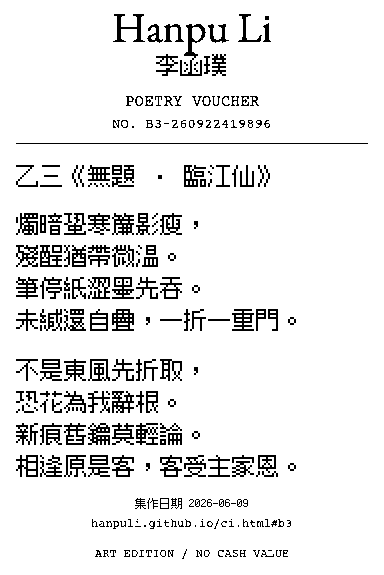
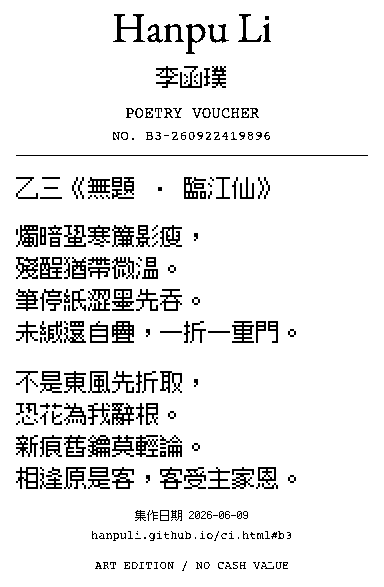
Space voucher author names in thermal proofs

diff --git a/ru/poetry-voucher/index.html b/ru/poetry-voucher/index.html
@@ -21,7 +21,7 @@
 <meta property="og:image" content="https://hanpuli.github.io/poetry-voucher/sample-voucher.png">
 <meta property="og:image:type" content="image/png">
 <meta property="og:image:width" content="384">
-<meta property="og:image:height" content="575">
+<meta property="og:image:height" content="587">
 <meta property="og:image:alt" content="Базовый образец B3: вымышленный чек с оплатой наличными и отдельный талон с оригиналом стихотворения">
 <meta property="og:url" content="https://hanpuli.github.io/ru/poetry-voucher/">
 <meta property="og:locale" content="ru_RU">
@@ -90,7 +90,7 @@
     <div class="pv-description"><p>Издание из двух частей: вымышленный кассовый чек и отдельный талон с полным текстом стихотворения. Выберите опубликованное произведение или наберите свой текст для термобумаги шириной 58 мм.</p><a class="pv-cta" href="/poetry-voucher/make.html?lang=ru">Создать поэтический талон</a><a class="pv-text-link" href="/ru/ci.html">Читать стихи</a></div>
   </section>
   <figure class="pv-sample" aria-label="Базовый образец B3: вымышленный чек с оплатой наличными и отдельный талон с оригиналом стихотворения">
-    <div class="pv-papers"><div><p>01 / Чек</p><img src="/poetry-voucher/sample-receipt.png" width="384" height="1062" alt="01 / Чек" decoding="async"></div><div><p>02 / Стихотворение</p><img src="/poetry-voucher/sample-voucher.png" width="384" height="575" alt="02 / Стихотворение" decoding="async"></div></div>
+    <div class="pv-papers"><div><p>01 / Чек</p><img src="/poetry-voucher/sample-receipt.png" width="384" height="1062" alt="01 / Чек" decoding="async"></div><div><p>02 / Стихотворение</p><img src="/poetry-voucher/sample-voucher.png" width="384" height="587" alt="02 / Стихотворение" decoding="async"></div></div>
     <figcaption>B3 · основной · оригинал · наличные</figcaption>
   </figure>
   <div class="pv-notes">

diff --git a/fr/poetry-voucher/index.html b/fr/poetry-voucher/index.html
@@ -21,7 +21,7 @@
 <meta property="og:image" content="https://hanpuli.github.io/poetry-voucher/sample-voucher.png">
 <meta property="og:image:type" content="image/png">
 <meta property="og:image:width" content="384">
-<meta property="og:image:height" content="575">
+<meta property="og:image:height" content="587">
 <meta property="og:image:alt" content="Épreuve de base B3 avec ticket fictif payé en espèces et bon poétique en version originale">
 <meta property="og:url" content="https://hanpuli.github.io/fr/poetry-voucher/">
 <meta property="og:locale" content="fr_FR">
@@ -90,7 +90,7 @@
     <div class="pv-description"><p>Une édition en deux parties : un ticket de caisse fictif, puis un bon portant le poème intégral. Choisissez une œuvre publiée ou composez votre texte pour un papier thermique de 58 mm.</p><a class="pv-cta" href="/poetry-voucher/make.html?lang=fr">Créer un bon poétique</a><a class="pv-text-link" href="/fr/ci.html">Lire les poèmes</a></div>
   </section>
   <figure class="pv-sample" aria-label="Épreuve de base B3 avec ticket fictif payé en espèces et bon poétique en version originale">
-    <div class="pv-papers"><div><p>01 / Le ticket</p><img src="/poetry-voucher/sample-receipt.png" width="384" height="1062" alt="01 / Le ticket" decoding="async"></div><div><p>02 / Le poème</p><img src="/poetry-voucher/sample-voucher.png" width="384" height="575" alt="02 / Le poème" decoding="async"></div></div>
+    <div class="pv-papers"><div><p>01 / Le ticket</p><img src="/poetry-voucher/sample-receipt.png" width="384" height="1062" alt="01 / Le ticket" decoding="async"></div><div><p>02 / Le poème</p><img src="/poetry-voucher/sample-voucher.png" width="384" height="587" alt="02 / Le poème" decoding="async"></div></div>
     <figcaption>B3 · base · original · espèces</figcaption>
   </figure>
   <div class="pv-notes">

diff --git a/de/poetry-voucher/index.html b/de/poetry-voucher/index.html
@@ -21,7 +21,7 @@
 <meta property="og:image" content="https://hanpuli.github.io/poetry-voucher/sample-voucher.png">
 <meta property="og:image:type" content="image/png">
 <meta property="og:image:width" content="384">
-<meta property="og:image:height" content="575">
+<meta property="og:image:height" content="587">
 <meta property="og:image:alt" content="B3-Basismuster mit fiktivem Barzahlungsbon und separatem Gedichtbon im Original">
 <meta property="og:url" content="https://hanpuli.github.io/de/poetry-voucher/">
 <meta property="og:locale" content="de_DE">
@@ -90,7 +90,7 @@
     <div class="pv-description"><p>Eine zweiteilige Edition: ein fiktiver Kassenbon und ein separater Bon mit dem vollständigen Gedicht. Wählen Sie ein veröffentlichtes Werk oder setzen Sie eigenen Text für 58 mm breites Thermopapier.</p><a class="pv-cta" href="/poetry-voucher/make.html?lang=de">Einen Gedichtbon gestalten</a><a class="pv-text-link" href="/de/ci.html">Gedichte lesen</a></div>
   </section>
   <figure class="pv-sample" aria-label="B3-Basismuster mit fiktivem Barzahlungsbon und separatem Gedichtbon im Original">
-    <div class="pv-papers"><div><p>01 / Kassenbon</p><img src="/poetry-voucher/sample-receipt.png" width="384" height="1062" alt="01 / Kassenbon" decoding="async"></div><div><p>02 / Gedicht</p><img src="/poetry-voucher/sample-voucher.png" width="384" height="575" alt="02 / Gedicht" decoding="async"></div></div>
+    <div class="pv-papers"><div><p>01 / Kassenbon</p><img src="/poetry-voucher/sample-receipt.png" width="384" height="1062" alt="01 / Kassenbon" decoding="async"></div><div><p>02 / Gedicht</p><img src="/poetry-voucher/sample-voucher.png" width="384" height="587" alt="02 / Gedicht" decoding="async"></div></div>
     <figcaption>B3 · Basis · Original · bar</figcaption>
   </figure>
   <div class="pv-notes">

diff --git a/poetry-voucher/index.html b/poetry-voucher/index.html
@@ -21,7 +21,7 @@
 <meta property="og:image" content="https://hanpuli.github.io/poetry-voucher/sample-voucher.png">
 <meta property="og:image:type" content="image/png">
 <meta property="og:image:width" content="384">
-<meta property="og:image:height" content="575">
+<meta property="og:image:height" content="587">
 <meta property="og:image:alt" content="B3 basic Poetry Voucher specimen: fictional cash receipt and separate original-text poem voucher">
 <meta property="og:url" content="https://hanpuli.github.io/poetry-voucher/">
 <meta property="og:locale" content="en_GB">
@@ -90,7 +90,7 @@
     <div class="pv-description"><p>A two-part edition: a fictional till receipt, followed by a voucher carrying the poem. Choose a published work or set your own text in a format made for 58 mm thermal paper.</p><a class="pv-cta" href="/poetry-voucher/make.html?lang=en">Make a voucher</a><a class="pv-text-link" href="/ci.html">Read the poems</a></div>
   </section>
   <figure class="pv-sample" aria-label="B3 basic Poetry Voucher specimen: fictional cash receipt and separate original-text poem voucher">
-    <div class="pv-papers"><div><p>01 / The receipt</p><img src="/poetry-voucher/sample-receipt.png" width="384" height="1062" alt="01 / The receipt" decoding="async"></div><div><p>02 / The poem</p><img src="/poetry-voucher/sample-voucher.png" width="384" height="575" alt="02 / The poem" decoding="async"></div></div>
+    <div class="pv-papers"><div><p>01 / The receipt</p><img src="/poetry-voucher/sample-receipt.png" width="384" height="1062" alt="01 / The receipt" decoding="async"></div><div><p>02 / The poem</p><img src="/poetry-voucher/sample-voucher.png" width="384" height="587" alt="02 / The poem" decoding="async"></div></div>
     <figcaption>B3 · basic · original · cash</figcaption>
   </figure>
   <div class="pv-notes">

diff --git a/zh-hans/poetry-voucher/index.html b/zh-hans/poetry-voucher/index.html
@@ -21,7 +21,7 @@
 <meta property="og:image" content="https://hanpuli.github.io/poetry-voucher/sample-voucher.png">
 <meta property="og:image:type" content="image/png">
 <meta property="og:image:width" content="384">
-<meta property="og:image:height" content="575">
+<meta property="og:image:height" content="587">
 <meta property="og:image:alt" content="乙三诗券基础样本：虚构现金小票及独立的原文诗券">
 <meta property="og:url" content="https://hanpuli.github.io/zh-hans/poetry-voucher/">
 <meta property="og:locale" content="zh_CN">
@@ -90,7 +90,7 @@
     <div class="pv-description"><p>一份分成两段的作品：上段是一笔虚构交易，下段是载有完整诗文的券。选择已发表作品，或排入自己的文字，带走一份为 58 毫米热敏纸设计的版本。</p><a class="pv-cta" href="/poetry-voucher/make.html?lang=zh-Hans">制作一张诗券</a><a class="pv-text-link" href="/zh-hans/ci.html">阅读原作</a></div>
   </section>
   <figure class="pv-sample" aria-label="乙三诗券基础样本：虚构现金小票及独立的原文诗券">
-    <div class="pv-papers"><div><p>01 / 小票</p><img src="/poetry-voucher/sample-receipt.png" width="384" height="1062" alt="01 / 小票" decoding="async"></div><div><p>02 / 诗券</p><img src="/poetry-voucher/sample-voucher.png" width="384" height="575" alt="02 / 诗券" decoding="async"></div></div>
+    <div class="pv-papers"><div><p>01 / 小票</p><img src="/poetry-voucher/sample-receipt.png" width="384" height="1062" alt="01 / 小票" decoding="async"></div><div><p>02 / 诗券</p><img src="/poetry-voucher/sample-voucher.png" width="384" height="587" alt="02 / 诗券" decoding="async"></div></div>
     <figcaption>乙三 · 基础 · 原文 · 现金</figcaption>
   </figure>
   <div class="pv-notes">

diff --git a/ja/poetry-voucher/index.html b/ja/poetry-voucher/index.html
@@ -21,7 +21,7 @@
 <meta property="og:image" content="https://hanpuli.github.io/poetry-voucher/sample-voucher.png">
 <meta property="og:image:type" content="image/png">
 <meta property="og:image:width" content="384">
-<meta property="og:image:height" content="575">
+<meta property="og:image:height" content="587">
 <meta property="og:image:alt" content="乙三の基本見本。架空の現金レシートと原文の詩の券">
 <meta property="og:url" content="https://hanpuli.github.io/ja/poetry-voucher/">
 <meta property="og:locale" content="ja_JP">
@@ -90,7 +90,7 @@
     <div class="pv-description"><p>架空の会計レシートと、詩の全文を収めた券。公開作品を選ぶか、自分の文章を58ミリの感熱紙のために組版できます。</p><a class="pv-cta" href="/poetry-voucher/make.html?lang=ja">詩の券を作る</a><a class="pv-text-link" href="/ja/ci.html">原作を読む</a></div>
   </section>
   <figure class="pv-sample" aria-label="乙三の基本見本。架空の現金レシートと原文の詩の券">
-    <div class="pv-papers"><div><p>01 / レシート</p><img src="/poetry-voucher/sample-receipt.png" width="384" height="1062" alt="01 / レシート" decoding="async"></div><div><p>02 / 詩の券</p><img src="/poetry-voucher/sample-voucher.png" width="384" height="575" alt="02 / 詩の券" decoding="async"></div></div>
+    <div class="pv-papers"><div><p>01 / レシート</p><img src="/poetry-voucher/sample-receipt.png" width="384" height="1062" alt="01 / レシート" decoding="async"></div><div><p>02 / 詩の券</p><img src="/poetry-voucher/sample-voucher.png" width="384" height="587" alt="02 / 詩の券" decoding="async"></div></div>
     <figcaption>乙三 · 基本 · 原文 · 現金</figcaption>
   </figure>
   <div class="pv-notes">

diff --git a/zh/poetry-voucher/index.html b/zh/poetry-voucher/index.html
@@ -21,7 +21,7 @@
 <meta property="og:image" content="https://hanpuli.github.io/poetry-voucher/sample-voucher.png">
 <meta property="og:image:type" content="image/png">
 <meta property="og:image:width" content="384">
-<meta property="og:image:height" content="575">
+<meta property="og:image:height" content="587">
 <meta property="og:image:alt" content="乙三詩券基本樣本：虛構現金小票及獨立的原文詩券">
 <meta property="og:url" content="https://hanpuli.github.io/zh/poetry-voucher/">
 <meta property="og:locale" content="zh_HK">
@@ -90,7 +90,7 @@
     <div class="pv-description"><p>一份分成兩段的作品：上段是一筆虛構交易，下段是載有完整詩文的券。選擇已發表作品，或排入自己的文字，帶走一份為 58 毫米熱敏紙設計的版本。</p><a class="pv-cta" href="/poetry-voucher/make.html?lang=zh-Hant">製作一張詩券</a><a class="pv-text-link" href="/zh/ci.html">閱讀原作</a></div>
   </section>
   <figure class="pv-sample" aria-label="乙三詩券基本樣本：虛構現金小票及獨立的原文詩券">
-    <div class="pv-papers"><div><p>01 / 小票</p><img src="/poetry-voucher/sample-receipt.png" width="384" height="1062" alt="01 / 小票" decoding="async"></div><div><p>02 / 詩券</p><img src="/poetry-voucher/sample-voucher.png" width="384" height="575" alt="02 / 詩券" decoding="async"></div></div>
+    <div class="pv-papers"><div><p>01 / 小票</p><img src="/poetry-voucher/sample-receipt.png" width="384" height="1062" alt="01 / 小票" decoding="async"></div><div><p>02 / 詩券</p><img src="/poetry-voucher/sample-voucher.png" width="384" height="587" alt="02 / 詩券" decoding="async"></div></div>
     <figcaption>乙三 · 基本 · 原文 · 現金</figcaption>
   </figure>
   <div class="pv-notes">

diff --git a/content/poetry-voucher-app/gallery.js b/content/poetry-voucher-app/gallery.js
@@ -73,6 +73,7 @@ const TYPE_CONFIG=Object.freeze({
   translation:19,
   authorLatin:42,
   authorCjk:20,
+  authorNameGapDots:12,
   pixelGrid:12,
   pixelSmallCutoff:16,
   pixelMinBody:24
@@ -428,7 +429,7 @@ function render(spec){
   p.till('PLEASE KEEP FOR YOUR RECORDS',null,true);p.space(8);
   p.till('FICTIONAL TRANSACTION',null,true);p.till('NO PAYMENT PROCESSED',null,true);p.till('NOT PROOF OF PURCHASE',null,true);
   const receiptEnd=p.y+PAPER_CONFIG.receiptInsetDots;p.space(34);p.till('-------- CUT HERE --------',null,true);p.space(34);const voucherStart=p.y;
-  if(spec.original){p.text('Hanpu Li',TYPE_CONFIG.authorLatin,serif,true,48);p.text('李函璞',TYPE_CONFIG.authorCjk,bodyFont,true,29);p.space(10);}
+  if(spec.original){p.text('Hanpu Li',TYPE_CONFIG.authorLatin,serif,true,48);p.space(TYPE_CONFIG.authorNameGapDots);p.text('李函璞',TYPE_CONFIG.authorCjk,bodyFont,true,29);p.space(10);}
   p.text('POETRY VOUCHER',16,mono,true,24);p.text('NO. '+voucher,14,mono,true,21);
   p.space(8);p.x.fillRect(PAPER_CONFIG.bodyInsetDots,p.y,PAPER_CONFIG.bodyWidthDots,1);p.space(16);p.text(spec.title,22,bodyFont,false,29);
   if(!spec.original&&spec.author)p.text(spec.author,14,bodyFont,false,20);

diff --git a/poetry-voucher/gallery.js b/poetry-voucher/gallery.js
@@ -73,6 +73,7 @@ const TYPE_CONFIG=Object.freeze({
   translation:19,
   authorLatin:42,
   authorCjk:20,
+  authorNameGapDots:12,
   pixelGrid:12,
   pixelSmallCutoff:16,
   pixelMinBody:24
@@ -428,7 +429,7 @@ function render(spec){
   p.till('PLEASE KEEP FOR YOUR RECORDS',null,true);p.space(8);
   p.till('FICTIONAL TRANSACTION',null,true);p.till('NO PAYMENT PROCESSED',null,true);p.till('NOT PROOF OF PURCHASE',null,true);
   const receiptEnd=p.y+PAPER_CONFIG.receiptInsetDots;p.space(34);p.till('-------- CUT HERE --------',null,true);p.space(34);const voucherStart=p.y;
-  if(spec.original){p.text('Hanpu Li',TYPE_CONFIG.authorLatin,serif,true,48);p.text('李函璞',TYPE_CONFIG.authorCjk,bodyFont,true,29);p.space(10);}
+  if(spec.original){p.text('Hanpu Li',TYPE_CONFIG.authorLatin,serif,true,48);p.space(TYPE_CONFIG.authorNameGapDots);p.text('李函璞',TYPE_CONFIG.authorCjk,bodyFont,true,29);p.space(10);}
   p.text('POETRY VOUCHER',16,mono,true,24);p.text('NO. '+voucher,14,mono,true,21);
   p.space(8);p.x.fillRect(PAPER_CONFIG.bodyInsetDots,p.y,PAPER_CONFIG.bodyWidthDots,1);p.space(16);p.text(spec.title,22,bodyFont,false,29);
   if(!spec.original&&spec.author)p.text(spec.author,14,bodyFont,false,20);
